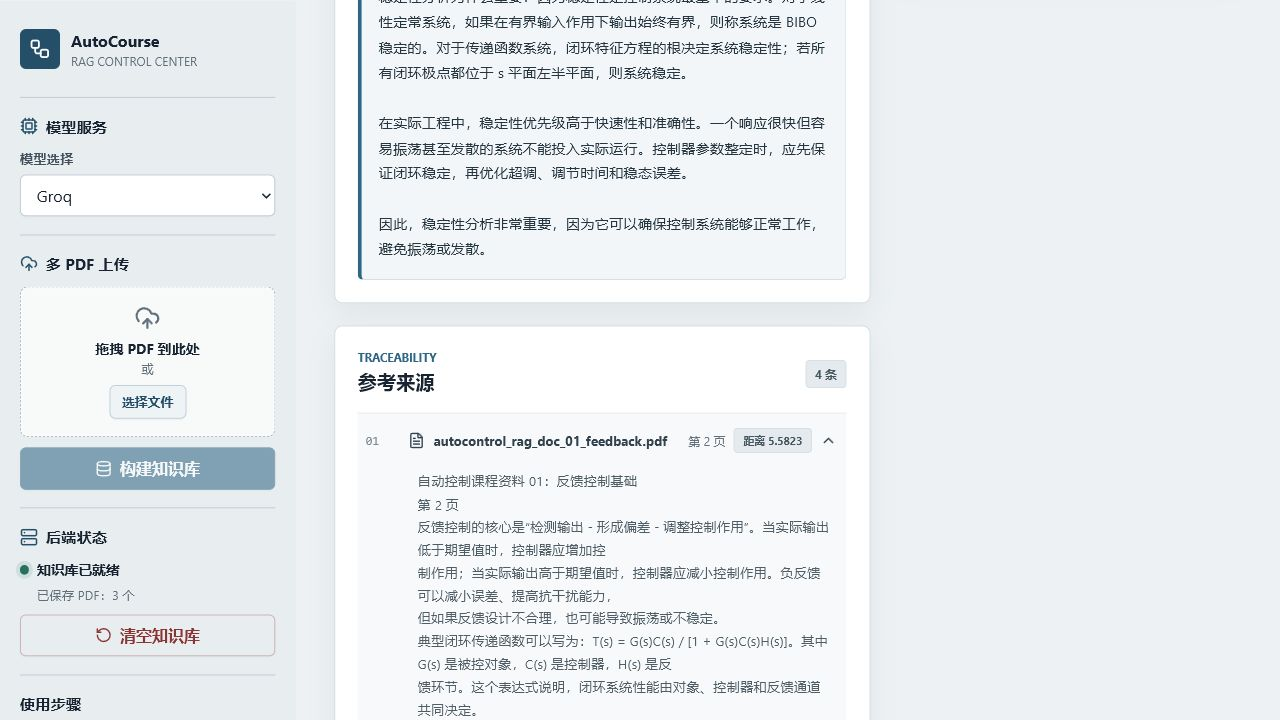
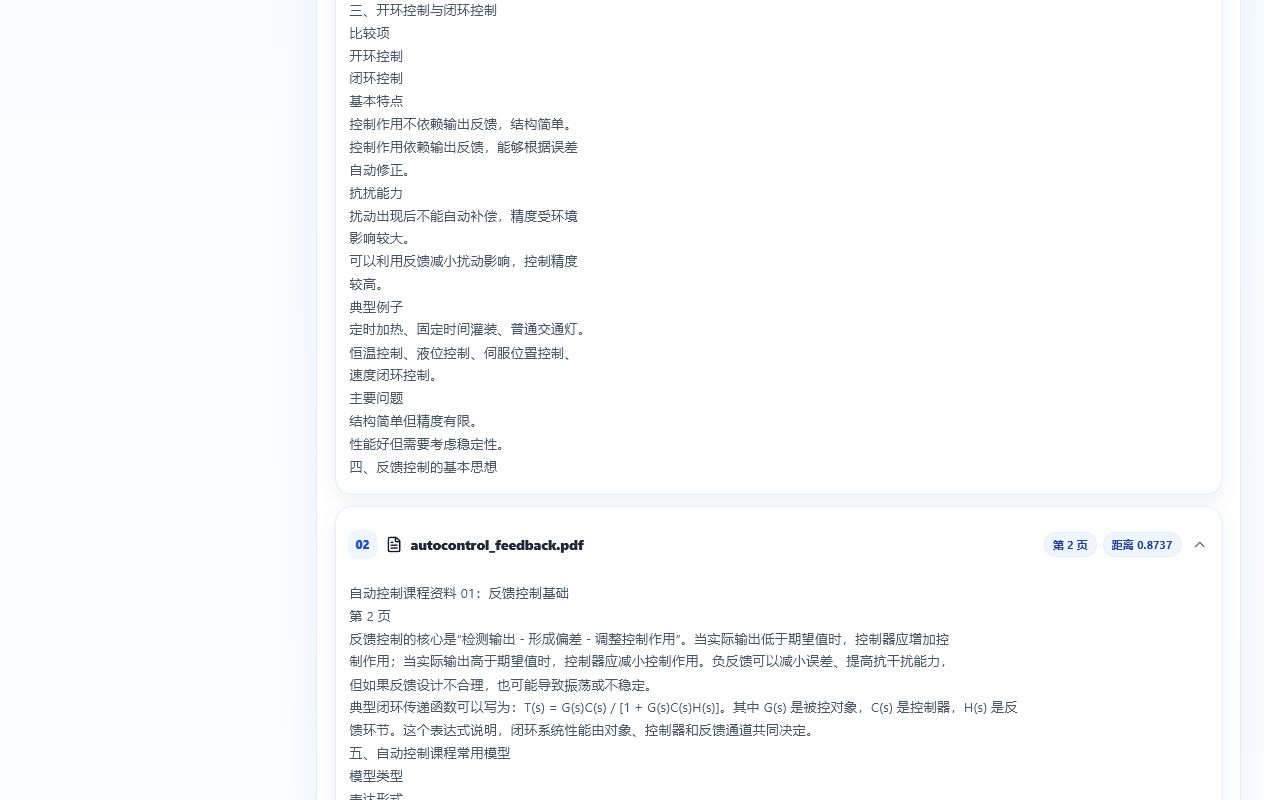
Update RAG project screenshots

diff --git a/README.md b/README.md
@@ -269,11 +269,11 @@ npm run build
 
 ## 功能截图
 
-以下截图基于 React + FastAPI 版本和 3 份自动控制课程测试资料生成。
+以下截图基于 React + FastAPI 版本和 3 份自动控制课程测试资料生成，重点展示 PDF 上传、RAG 问答、来源追溯、学习工具和响应式页面。
 
-### React 前端首页
+### 学习工作台首页
 
-![React 前端首页](screenshots/01_react_home.png)
+![学习工作台首页](screenshots/01_home_workspace.png)
 
 ### 多 PDF 上传与知识库管理
 
@@ -293,7 +293,7 @@ npm run build
 
 ### 移动端响应式布局
 
-![移动端响应式布局](screenshots/06_responsive_layout.png)
+![移动端响应式布局](screenshots/06_mobile_layout.png)
 
 ## 项目亮点
 
